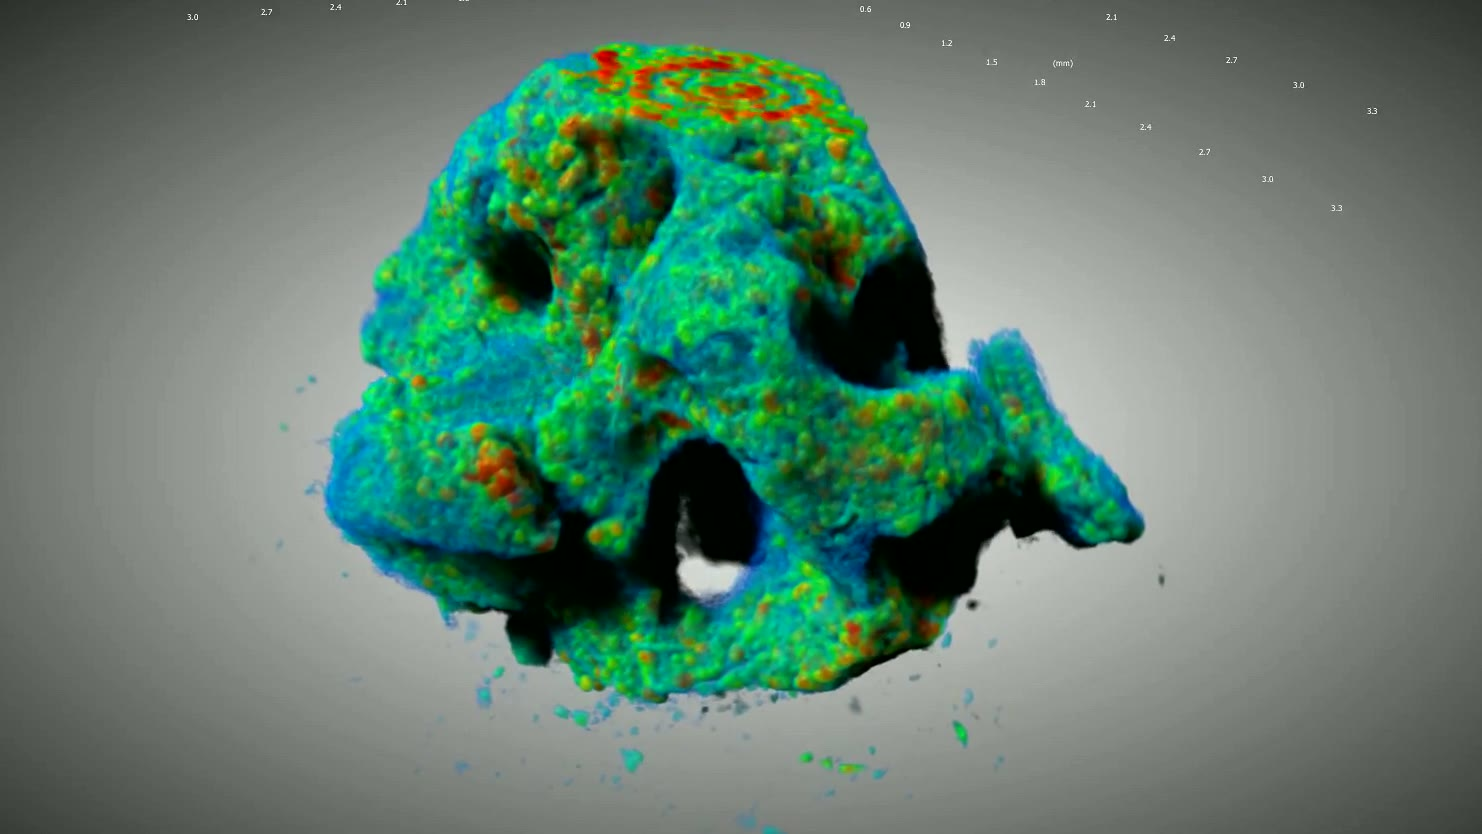
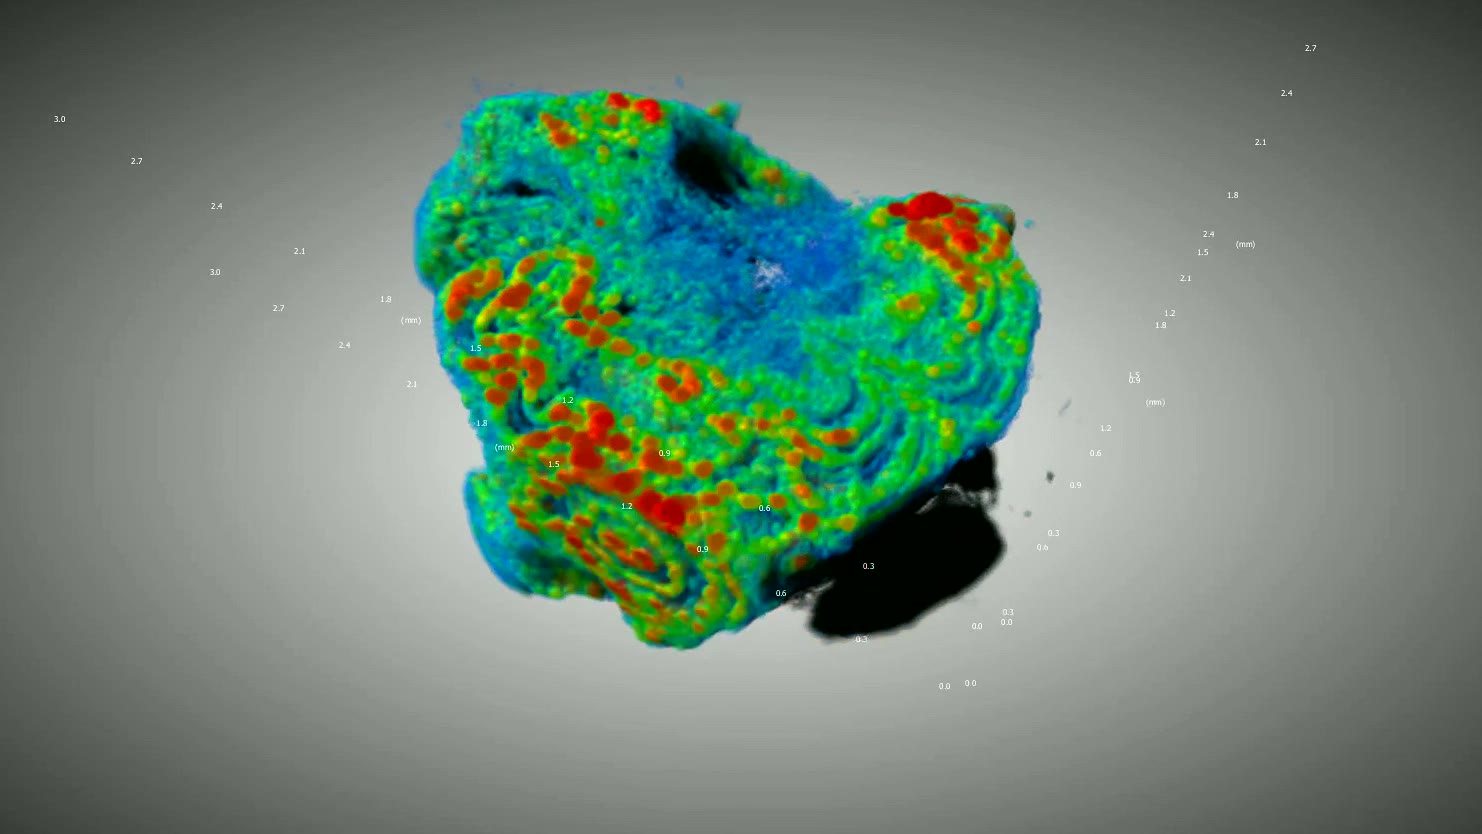
video playback

diff --git a/src/components/layouts/SceneView.tsx b/src/components/layouts/SceneView.tsx
@@ -28,12 +28,14 @@ function SceneVideo({
   alt,
   active,
   fit = 'contain',
+  holdAt,
 }: {
   src: string
   poster?: string
   alt?: string
   active: boolean
   fit?: 'cover' | 'contain'
+  holdAt?: number
 }) {
   const ref = useRef<HTMLVideoElement>(null)
   const reduced = usePrefersReducedMotion()
@@ -49,6 +51,24 @@ function SceneVideo({
     void el.play()
   }, [active, reduced, src])
 
+  useEffect(() => {
+    const el = ref.current
+    if (!el || holdAt == null) return
+
+    const hold = () => {
+      if (el.currentTime + 0.04 < holdAt) return
+      el.pause()
+      el.currentTime = holdAt
+    }
+
+    el.addEventListener('timeupdate', hold)
+    el.addEventListener('ended', hold)
+    return () => {
+      el.removeEventListener('timeupdate', hold)
+      el.removeEventListener('ended', hold)
+    }
+  }, [holdAt, src])
+
   return (
     <video
       ref={ref}
@@ -57,7 +77,7 @@ function SceneVideo({
       src={src}
       poster={poster}
       muted
-      loop
+      loop={holdAt == null}
       playsInline
       preload="auto"
       aria-label={alt}
@@ -178,6 +198,7 @@ function LayerView({
         alt={layer.alt}
         active={active}
         fit={layer.fit}
+        holdAt={layer.holdAt}
       />
     )
   }

diff --git a/src/data/slides.ts b/src/data/slides.ts
@@ -57,6 +57,8 @@ export interface SceneLayer {
   slides?: SceneSlide[]
   /** First plate hold, then each later plate. */
   dwellMs?: [number, number]
+  /** Seconds. Play once, then hold this frame. */
+  holdAt?: number
 }
 
 export interface SceneBeat {
@@ -536,6 +538,7 @@ export const slides: Slide[] = [
         poster: asset('images/ks78-cut.jpg'),
         alt: 'CT thickness map of a kidney stone, orbiting',
         fit: 'cover',
+        holdAt: 39,
       },
       {
         id: 'stromatolite',
